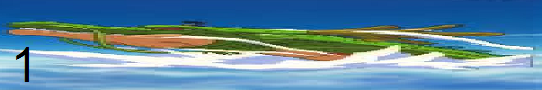
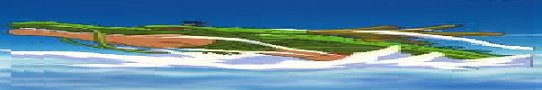
Ajuste voo goku - angulacao para baixo

Changed region(s): [[0.0, 0.4889, 0.0886, 0.9556], [0.059, 0.4444, 0.0886, 0.4667]]

diff --git a/carlosborges2/flapdragon/js/Play.js b/carlosborges2/flapdragon/js/Play.js
@@ -19,32 +19,3 @@ var playState = function(game) {
 	
 };
 
-
-//var playState = {
-//		
-//	create : function() {
-//		
-//		console.log('playState-create');
-//		
-//		game.physics.startSystem(Phaser.Physics.ARCADE);
-//		
-////		game.world.setBounds(0, 0, game.stage.bounds.width, game.cache.getImage('bg').height);
-//		
-//		console.log('pre-create');
-//		
-//		level.create();
-//		console.log('level.create()');
-//		player.create();
-//		console.log('player.create()');
-//		enemies.create();
-//		console.log('enemies.create()');
-//		
-////		game.camera.follow(player.sprite);
-//	},
-//
-//	update : function() {
-//		player.update();
-//		level.bg.tilePosition.x -= 1;
-//	}
-//
-//};

diff --git a/carlosborges2/flapdragon/js/Enemies.js b/carlosborges2/flapdragon/js/Enemies.js
@@ -7,7 +7,7 @@ Enemies = function(game) {
 Enemies.prototype = {
 	preload : function() {
 		this.game.load.spritesheet(this.sprites[0], 'assets/dragon1_480-90.png', 480, 90);
-		this.game.load.spritesheet(this.sprites[1], 'assets/dragon2_480-90.png', 480, 90);
+		this.game.load.spritesheet(this.sprites[1], 'assets/shen_400-60.png', 400, 60);
 		this.game.load.spritesheet(this.sprites[2], 'assets/dragon3_480-90.png', 480, 90);
 		
 		//this.game.load.spritesheet(this.sprites[1], 'assets/char2_110-134.png',	 110, 134);

diff --git a/carlosborges2/flapdragon/js/Player.js b/carlosborges2/flapdragon/js/Player.js
@@ -57,8 +57,6 @@ Player.prototype = {
 			this.spaceIsUped = false;
 			
 			this.player.body.velocity.y = this.playerYJump;
-			//this.player.body.velocity.x = 10;
-			//this.audioVoar.play();
 			
 			this.soundCloud.play();
 		}
@@ -71,12 +69,12 @@ Player.prototype = {
 		
 		if(this.player.body.velocity.y < 0) {
 			game.add.tween(this.player).to({
-				angle : -10
+				angle : -15
 			}, 100).start();
 		}
 		else {
 			game.add.tween(this.player).to({
-				angle : 10
+				angle : 15
 			}, 100).start();
 		}
 		
